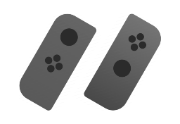
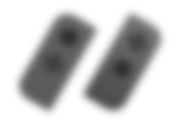
Use pre-blurred preload image

diff --git a/layouts/default.vue b/layouts/default.vue
@@ -829,6 +829,10 @@ html {
     animation: flow 45s linear infinite;
 }
 
+.v-image__image--preload {
+    filter: unset !important;
+}
+
 .card .v-image__image--preload,
 .placeholder {
     background: url('/images/diagonal_joycon-180.png') #333;
